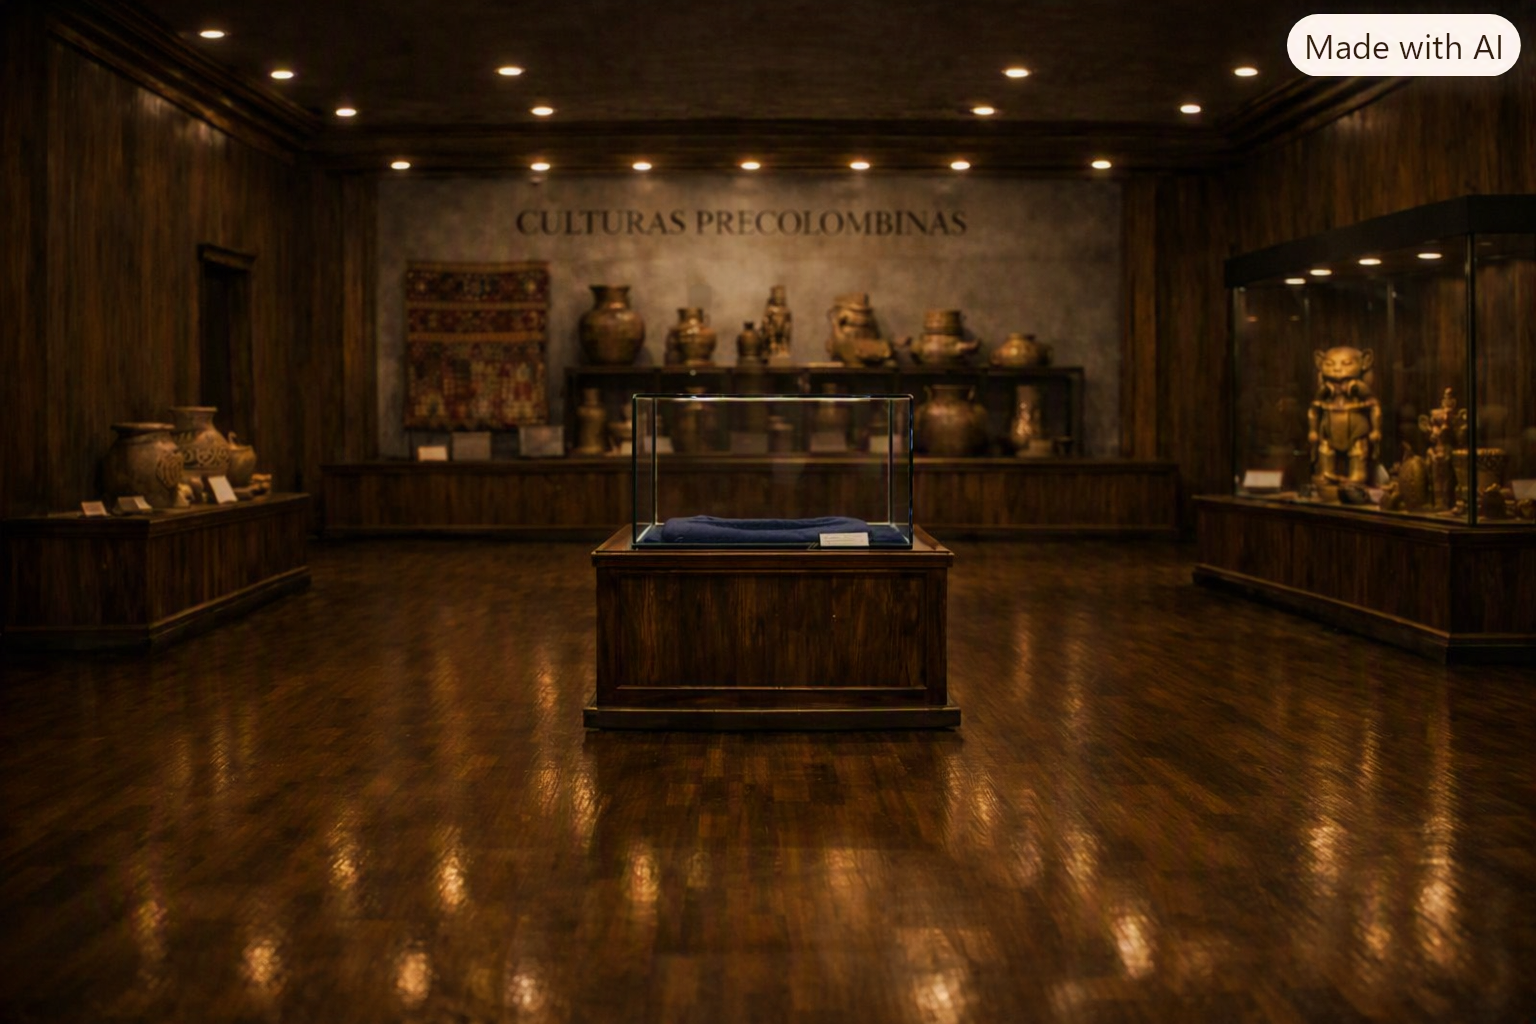
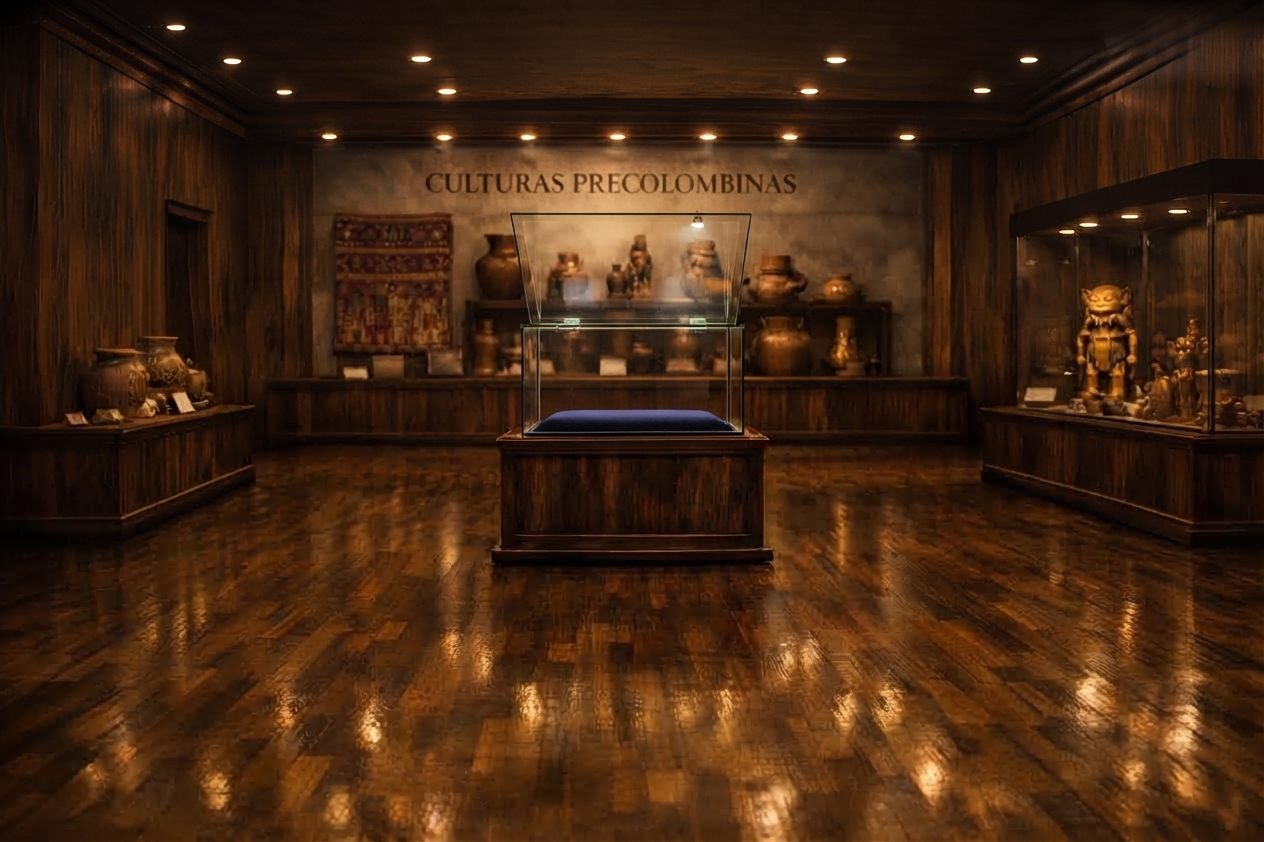
Agrega objetos visuales a escena del museo

diff --git a/js/script.js b/js/script.js
@@ -912,6 +912,8 @@ monogatari.assets ('videos', {
 // Define the images used in the game.
 monogatari.assets ('images', {
 	'palo_antorcha': 'palo_antorcha.png',
+	'panuelo': 'panuelo.png',
+	'llave_antigua': 'llave_antigua.png',
 	'overlay_vignette_sepia': 'overlay_vignette_sepia.png',
 	'overlay_grano': 'overlay_grano.png',
 	'overlay_letterbox': 'overlay_letterbox.png'
@@ -1643,7 +1645,9 @@ monogatari.script({
         //() => hideHotspot('vitrina'),
         //() => stopIconFollow(),
 		() => VerObjeto('idolo'),
+		() => ImagenEnHotspot('panuelo', { escala: 0.3 }),
         () => TomarObjeto('panuelo'),
+		() => ImagenEnHotspot('llave_antigua', { escala: 0.3 }),
 		() => TomarObjeto('llave_antigua'),
 		() => UsarObjeto('vitrina','llave_antigua','jump Escena1_Tomar'),
 		'narrator Necesitas la piedra de Ngenechén. La vitrina está cerrada.'
